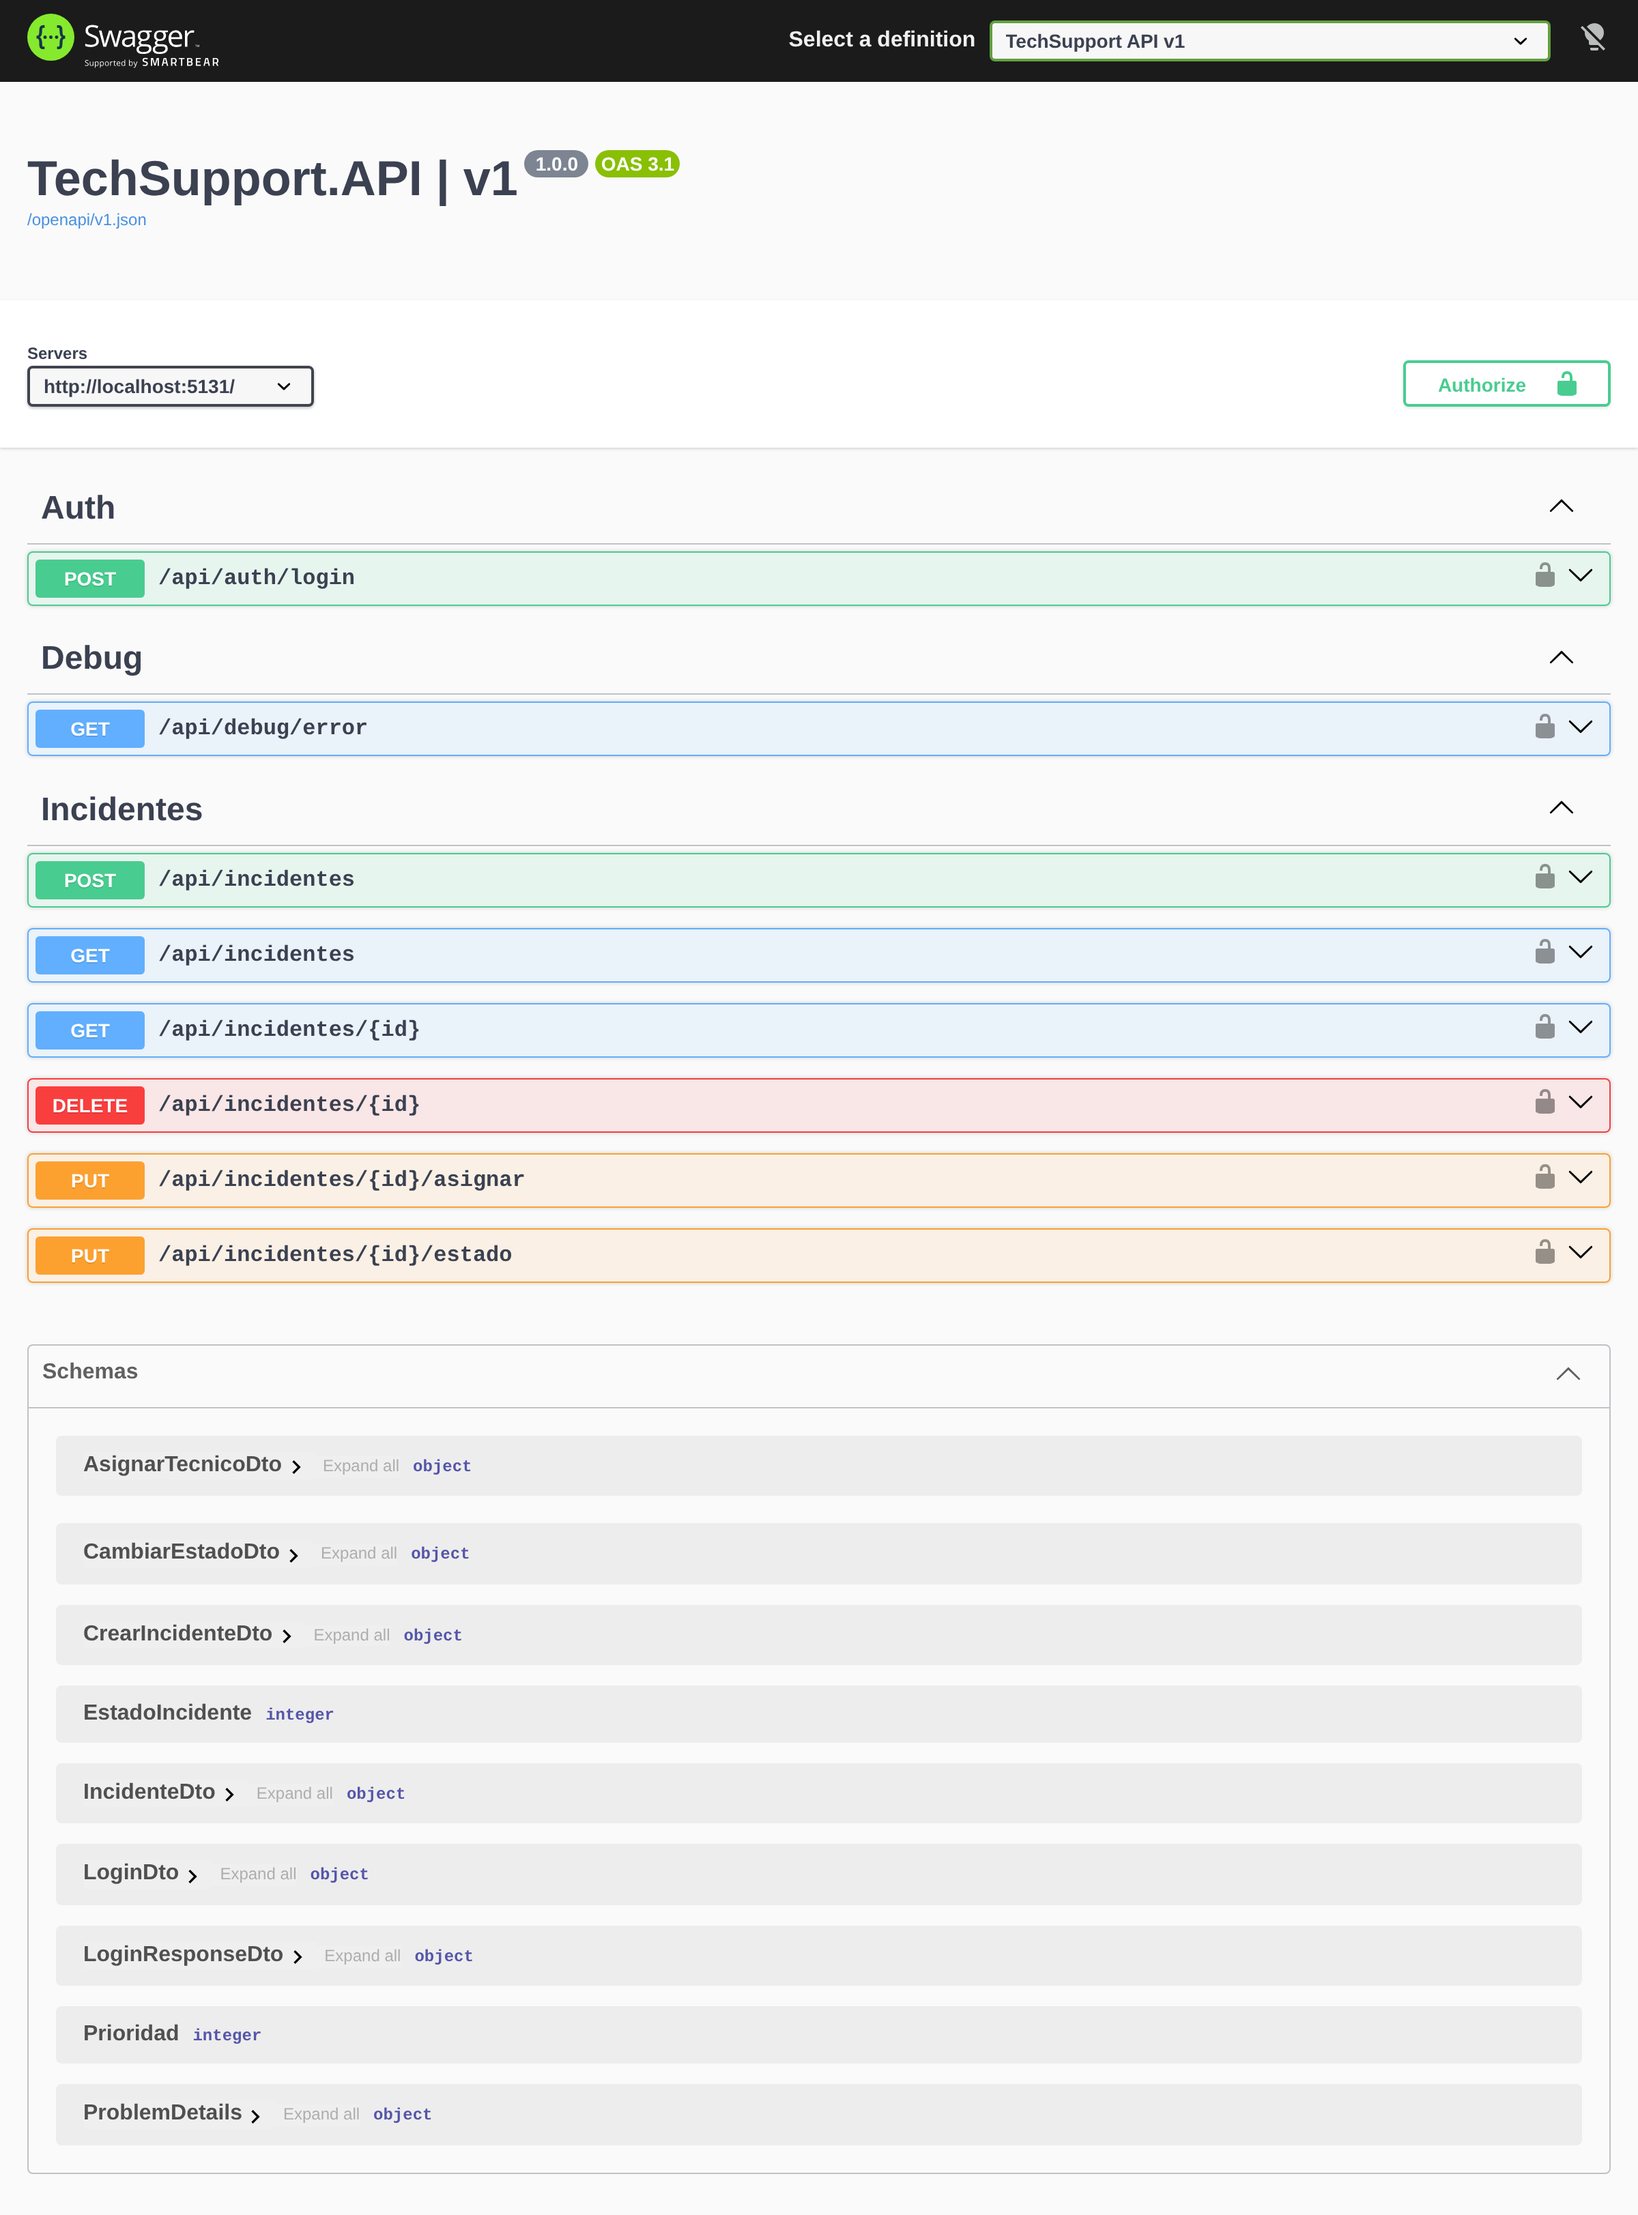
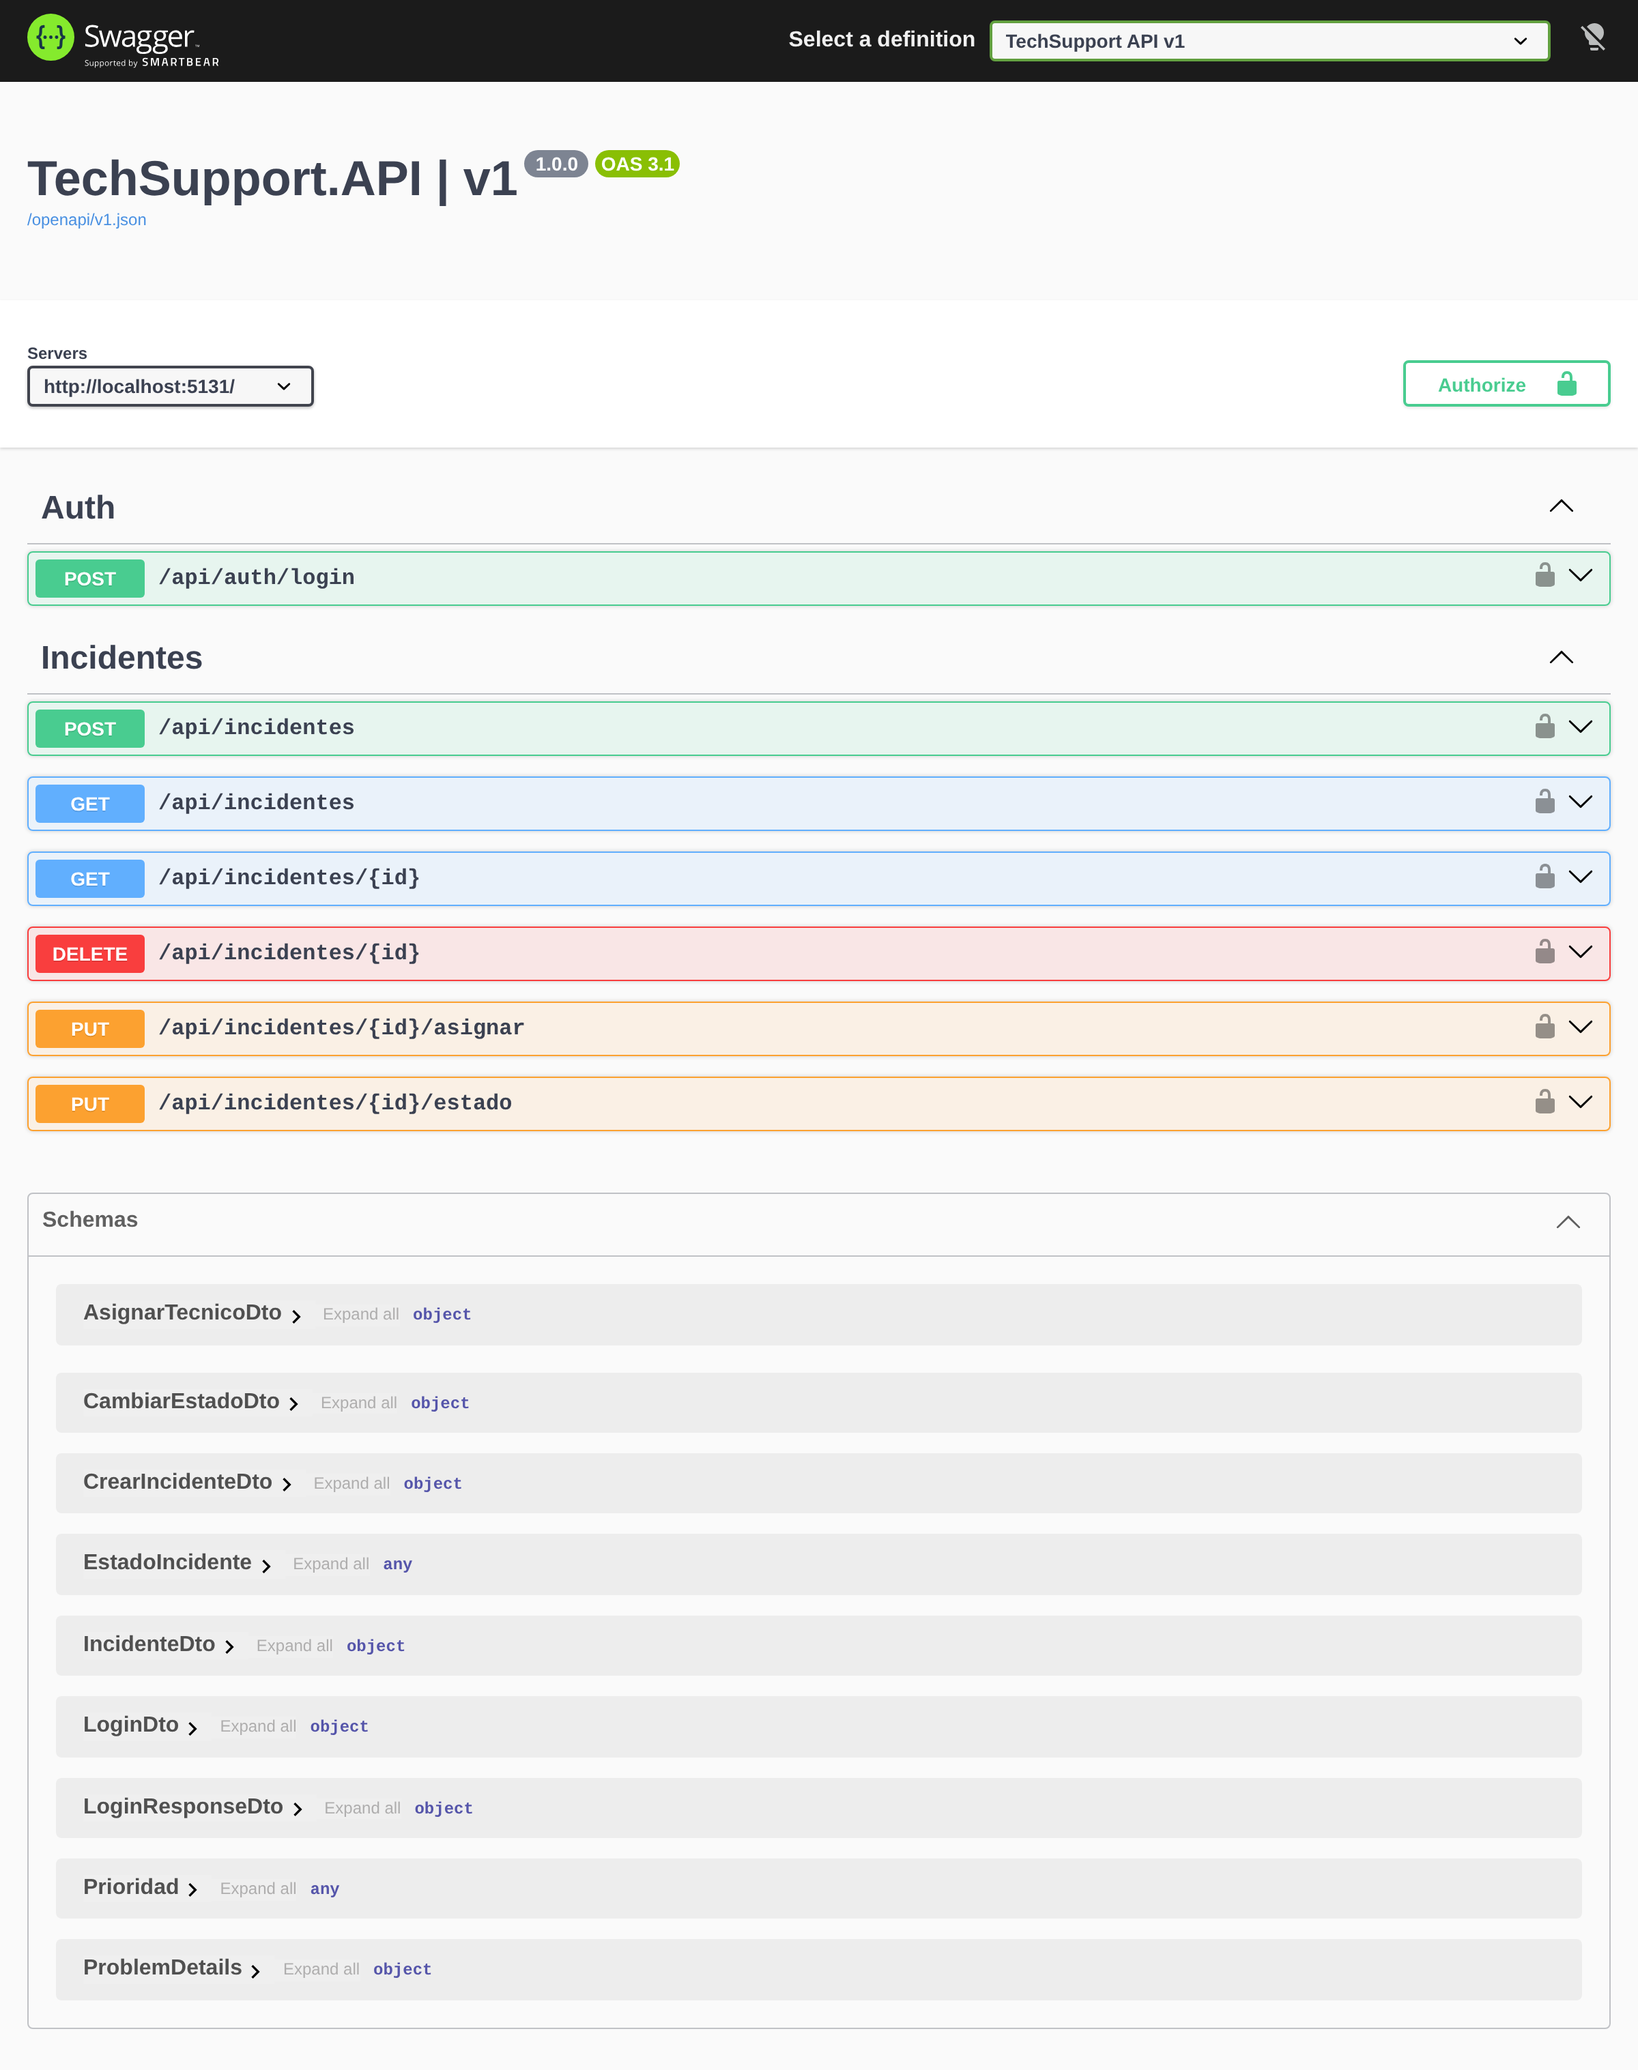
Eliminar endpoint temporal de prueba y mostrar enums como texto en Swagger

diff --git a/TechSupport.API/Program.cs b/TechSupport.API/Program.cs
@@ -98,6 +98,8 @@ builder.Services.AddControllers(o =>
         };
     });
 
+builder.Services.ConfigureHttpJsonOptions(o => o.SerializerOptions.Converters.Add(new JsonStringEnumConverter()));
+
 builder.Services.AddOpenApi(o => o.AddDocumentTransformer((document, _, _) =>
 {
     document.Components ??= new OpenApiComponents();
